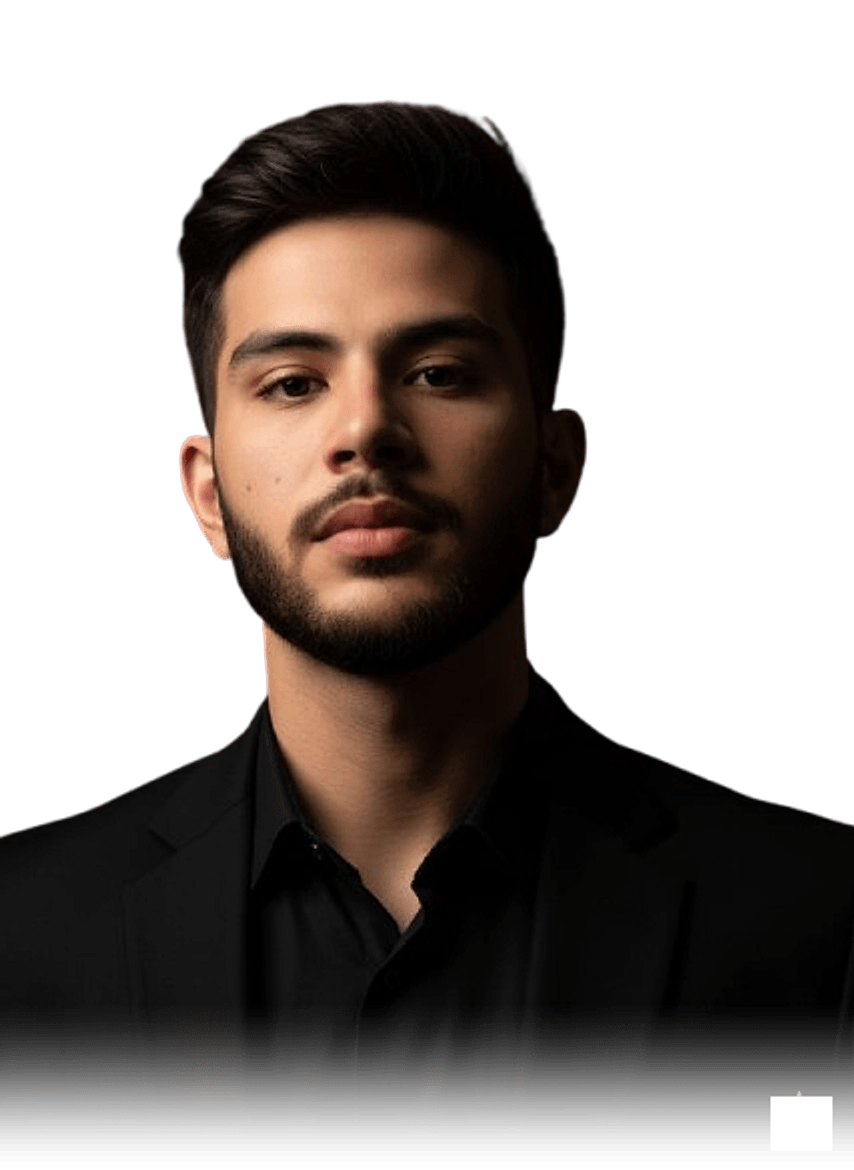
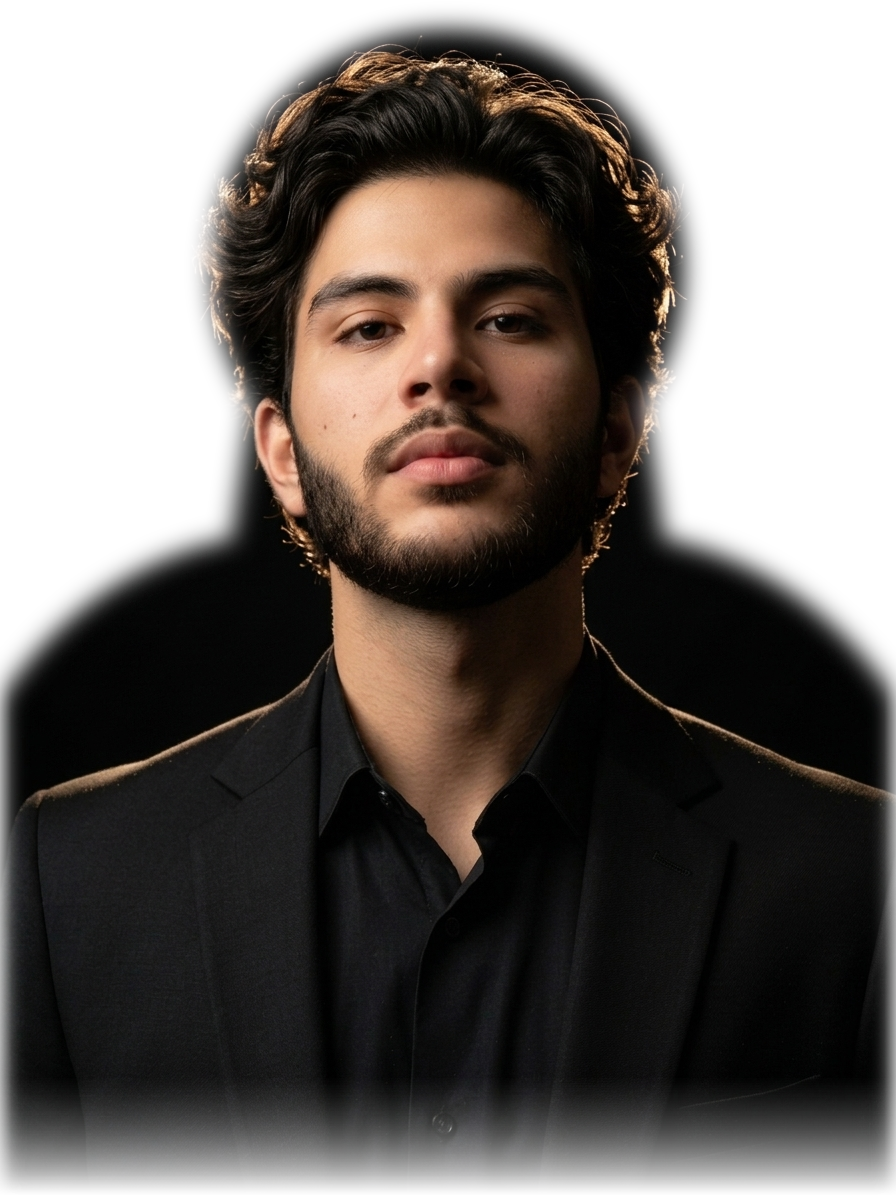
feat: enhance Usman portrait with stylish pose, broad shoulders, and vertically elongated PORTFOLIO typography matching reference

diff --git a/src/components/portfolio/Hero.tsx b/src/components/portfolio/Hero.tsx
@@ -12,51 +12,51 @@ export default function Hero() {
   return (
     <section className="relative w-full max-w-7xl mx-auto px-4 sm:px-6 md:px-12 lg:px-16 pt-2 pb-12 overflow-visible">
       {/* Container holding the massive PORTFOLIO typography and overlapping portrait */}
-      <div className="relative w-full flex flex-col items-center justify-start min-h-[520px] md:min-h-[620px] lg:min-h-[700px]">
-        {/* Background Massive Condensed Text: "PORTFOLIO" */}
+      <div className="relative w-full flex flex-col items-center justify-start min-h-[560px] md:min-h-[690px] lg:min-h-[780px]">
+        {/* Background Massive Condensed Text: "PORTFOLIO" (Vertically elongated like reference) */}
         <motion.div
           initial={{ opacity: 0, y: 30 }}
           animate={{ opacity: 1, y: 0 }}
           transition={{ duration: 0.9, ease: [0.16, 1, 0.3, 1] }}
-          className="w-full text-center select-none pointer-events-none z-0 mt-0"
+          className="w-full text-center select-none pointer-events-none z-0 mt-0 overflow-visible"
         >
           <h1
-            className="font-bebas text-[20vw] sm:text-[19vw] md:text-[180px] lg:text-[215px] xl:text-[240px] leading-[0.82] tracking-[0.04em] sm:tracking-[0.08em] md:tracking-[0.11em] text-[#E8D0B2] opacity-90 transition-all font-normal whitespace-nowrap"
+            className="font-bebas text-[22vw] sm:text-[21vw] md:text-[200px] lg:text-[240px] xl:text-[270px] leading-[0.76] tracking-[0.05em] sm:tracking-[0.08em] md:tracking-[0.11em] text-[#E8D0B2] opacity-90 transition-all font-normal whitespace-nowrap transform scale-y-[1.32] md:scale-y-[1.44] origin-top"
             style={{
-              textShadow: "0 10px 40px rgba(0,0,0,0.8)",
+              textShadow: "0 10px 40px rgba(0,0,0,0.85)",
             }}
           >
             {profile.heroHeading}
           </h1>
         </motion.div>
 
-        {/* Central Overlapping Portrait of Muhammad Usman */}
+        {/* Central Overlapping Portrait of Muhammad Usman with full broad shoulders & style */}
         <motion.div
           initial={{ opacity: 0, scale: 0.95, y: 30 }}
           animate={{ opacity: 1, scale: 1, y: 0 }}
           transition={{ duration: 1, delay: 0.2, ease: [0.16, 1, 0.3, 1] }}
-          className="absolute top-0 sm:-top-2 md:-top-4 z-10 w-[280px] sm:w-[350px] md:w-[420px] lg:w-[470px] h-[380px] sm:h-[480px] md:h-[570px] lg:h-[640px] pointer-events-none"
+          className="absolute top-0 sm:-top-2 md:-top-4 z-10 w-[320px] sm:w-[410px] md:w-[520px] lg:w-[600px] xl:w-[640px] h-[430px] sm:h-[550px] md:h-[680px] lg:h-[760px] xl:h-[820px] pointer-events-none"
         >
           {/* Subtle warm backlight glow behind subject */}
-          <div className="absolute inset-0 -top-8 bg-gradient-to-b from-[#C99A5B]/15 via-transparent to-transparent blur-3xl rounded-full transform -translate-y-6" />
+          <div className="absolute inset-0 -top-8 bg-gradient-to-b from-[#C99A5B]/20 via-transparent to-transparent blur-3xl rounded-full transform -translate-y-6" />
 
           {/* Portrait Image with natural gradient blend into the dark canvas */}
           <div className="relative w-full h-full">
             <Image
-              src="/images/hero-portrait-usman.png"
+              src="/images/hero-portrait-styled.png"
               alt="Muhammad Usman — Web Designer & Digital Creator"
               fill
               priority
-              sizes="(max-width: 640px) 280px, (max-width: 768px) 350px, (max-width: 1024px) 420px, 470px"
+              sizes="(max-width: 640px) 320px, (max-width: 768px) 410px, (max-width: 1024px) 520px, 640px"
               className="object-contain object-top drop-shadow-[0_20px_50px_rgba(0,0,0,0.9)]"
             />
             {/* Smooth bottom fade mask so blazer blends seamlessly into the dark page */}
-            <div className="absolute inset-x-0 bottom-0 h-28 md:h-36 bg-gradient-to-t from-[#101010] via-[#101010]/80 to-transparent pointer-events-none" />
+            <div className="absolute inset-x-0 bottom-0 h-32 md:h-44 bg-gradient-to-t from-[#101010] via-[#101010]/80 to-transparent pointer-events-none" />
           </div>
         </motion.div>
 
         {/* Lower Left & Lower Right Content Row */}
-        <div className="relative z-20 w-full mt-auto pt-[230px] sm:pt-[280px] md:pt-[330px] lg:pt-[380px] grid grid-cols-1 md:grid-cols-12 gap-8 md:gap-4 items-end">
+        <div className="relative z-20 w-full mt-auto pt-[270px] sm:pt-[330px] md:pt-[400px] lg:pt-[470px] grid grid-cols-1 md:grid-cols-12 gap-8 md:gap-4 items-end">
           {/* Lower Left Hero Column */}
           <motion.div
             initial={{ opacity: 0, x: -30 }}

diff --git a/scripts/process-styled-usman.js b/scripts/process-styled-usman.js
@@ -1,0 +1,85 @@
+const sharp = require("sharp");
+const path = require("path");
+
+const inputPath = "C:/Users/Zahid/.gemini/antigravity-ide/brain/b83288d4-ad89-41d3-8262-bab36e28da3b/usman_styled_portrait_v2_1792521291869.jpg";
+const outputPath = path.join(__dirname, "../public/images/hero-portrait-usman.png");
+
+async function processStyledPortrait() {
+  try {
+    const width = 896;
+    const height = 1200;
+
+    const maskSvg = Buffer.from(`
+    <svg width="${width}" height="${height}" viewBox="0 0 ${width} ${height}" xmlns="http://www.w3.org/2000/svg">
+      <defs>
+        <filter id="smoothFeather" x="-20%" y="-20%" width="140%" height="140%">
+          <feGaussianBlur stdDeviation="12" />
+        </filter>
+        <linearGradient id="bottomFade" x1="0" y1="0" x2="0" y2="1">
+          <stop offset="0%" stop-color="#fff" />
+          <stop offset="72%" stop-color="#fff" />
+          <stop offset="90%" stop-color="#fff" stop-opacity="0.35" />
+          <stop offset="100%" stop-color="#000" />
+        </linearGradient>
+      </defs>
+
+      <!-- Background: 0 alpha -->
+      <rect width="${width}" height="${height}" fill="#000000" />
+
+      <!-- Complete silhouette with smooth feathering -->
+      <g filter="url(#smoothFeather)">
+        <!-- Head and hair volume -->
+        <ellipse cx="448" cy="270" rx="235" ry="240" fill="#ffffff" />
+        
+        <!-- Neck and upper collar -->
+        <polygon points="260,350 636,350 670,580 226,580" fill="#ffffff" />
+        
+        <!-- Broad shoulders and suit blazer -->
+        <path d="
+          M 226,540
+          C 140,560 60,610 0,700
+          L 0,1200
+          L 896,1200
+          L 896,700
+          C 836,610 756,560 670,540
+          Z
+        " fill="#ffffff" />
+      </g>
+
+      <!-- Smooth bottom fade into dark canvas -->
+      <rect width="${width}" height="${height}" fill="url(#bottomFade)" style="mix-blend-mode: multiply;" />
+    </svg>
+    `);
+
+    const maskRaw = await sharp(maskSvg)
+      .toColourspace("b-w")
+      .raw()
+      .toBuffer();
+
+    const { data: imgData } = await sharp(inputPath)
+      .ensureAlpha()
+      .raw()
+      .toBuffer({ resolveWithObject: true });
+
+    // Set alpha channel directly from the smooth mask
+    for (let i = 0; i < width * height; i++) {
+      imgData[i * 4 + 3] = maskRaw[i];
+    }
+
+    await sharp(imgData, {
+      raw: {
+        width,
+        height,
+        channels: 4,
+      },
+    })
+      .png({ compressionLevel: 8 })
+      .toFile(outputPath);
+
+    console.log("Successfully created hero-portrait-usman.png with wide shoulders and full hair!");
+  } catch (err) {
+    console.error("Error creating portrait:", err);
+  }
+}
+
+processStyledPortrait();
